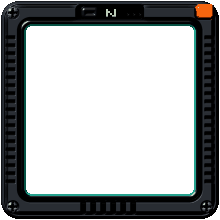
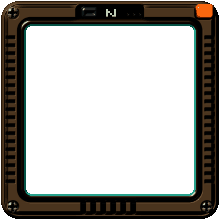
Minimap device frames: I and J in the respect meters' dark brown
The housings and bezels of I and J move from charcoal and black to the
dark warm brown of the respect meters' rim, sampled from its sprite;
screws and lips go to a warm grey metal. Everything else stays: clean
surfaces, the light-based pre-render look, I's teal line, J's light
bar, the status lamps.

Changed region(s): [[0.0, 0.0, 0.9818, 0.9818]]

diff --git a/port/docs/minimap/tools/designs.py b/port/docs/minimap/tools/designs.py
@@ -445,9 +445,9 @@ BUILDERS = [respect_ring, pager_handset, steel_plate, compass_dial]
 BUILDERS2 = [tube_frame, police_scanner, dash_gauge, gps_handheld]
 
 
-# Frames for the 3DS bottom screen's 9-slice (port/3ds/minimap.cpp, README's device frames) at its 110x110 slot:
-# clean moulded plastic and anodised metal. Edge details repeat every 4 px; make_frames.py rebuilds edges from a strip.
-GUNMETAL = hexrgb('#5a5f68'); BLACK_METAL = hexrgb('#16171b')
+# Frames for the 3DS bottom screen's 9-slice (port/3ds/minimap.cpp, README's device frames) at its 110x110 slot, in
+# the respect meters' dark warm brown. Edge details repeat every 4 px; make_frames.py rebuilds edges from a strip.
+GUNMETAL = hexrgb('#6a6052'); BLACK_METAL = hexrgb('#22180f')
 
 
 def _nine(d, cap, rib, tab_w, btab_w=0, inset=13):
@@ -502,14 +502,14 @@ def _finish(d, c, screen, map_style='colour'):
 
 
 def tracker_handset():
-    """I: a handheld tracker in charcoal moulded plastic: black anodised bezel with a thin glowing line, side vents,
+    """I: a handheld tracker in dark brown moulded plastic: dark anodised bezel with a thin glowing line, side vents,
     a black glass status window with the status lamp and an N, the pager's orange button, a speaker grille below."""
     d = Design(); d.name = 'I_tracker_handset'; d.title = 'I  Tracker handset'
     d.W = d.H = W = H = 110
     _nine(d, cap=18, rib=12, tab_w=40, btab_w=40)
     c = Canvas(W, H)
     body = sd_rrect(c, 0.5, 0.5, W - 0.5, H - 0.5, 9)
-    _housing(c, body, hexrgb('#2e3238'), 0.6, 30, 3.5, 5.0)
+    _housing(c, body, hexrgb('#4a3826'), 0.6, 30, 3.5, 5.0)
     c.h_[np.abs(body + 2.2) < 0.45] -= 0.9
     side = ((c.x > 3) & (c.x < 7.5) | (c.x > W - 7.5) & (c.x < W - 3)) & (c.y > 18) & (c.y < H - 18)
     c.paint(side & (((c.y - 18) % 4) < 1.6), hexrgb('#060708'), add=-1.8)
@@ -542,14 +542,14 @@ def tracker_handset():
 
 
 def police_scanner2():
-    """J: a police scanner in black anodised metal: red and blue light bar with an N between, a deep CRT well with a
-    gunmetal lip, vent slots on the right, two knurled knobs below, the status lamp in a gunmetal bezel top right."""
+    """J: a police scanner in dark brown anodised metal: red and blue light bar with an N between, a deep CRT well
+    with a metal lip, vent slots on the right, two knurled knobs below, the status lamp in a metal bezel top right."""
     d = Design(); d.name = 'J_police_scanner'; d.title = 'J  Police scanner'
     d.W = d.H = W = H = 110
     _nine(d, cap=20, rib=12, tab_w=44)
     c = Canvas(W, H)
     body = sd_rrect(c, 0.5, 0.5, W - 0.5, H - 0.5, 11)
-    _housing(c, body, hexrgb('#202226'), 0.9, 45, 4.5, 6.0)
+    _housing(c, body, hexrgb('#3a2b1e'), 0.9, 45, 4.5, 6.0)
     c.h_[np.abs(body + 2.5) < 0.45] -= 0.9
     bar = sd_rrect(c, 34, 0.5, 76, 12.5, 4)
     c.paint(bar < 0, hexrgb('#0c0c0e'), spec=0.8, shin=40, height=6.0 + profile_round(np.minimum(-bar, 1.5), 3.0, 1.5))
@@ -577,7 +577,7 @@ def police_scanner2():
                         (x - 0.7 * np.cos(a + 1.57), y - 0.7 * np.sin(a + 1.57))])
         c.paint(p < 0.2, hexrgb('#0c0c0e'), spec=0.4, add=-0.6)
     well = sd_rrect(c, 9, 9, W - 9, H - 9, 9)
-    c.paint(well < 0, hexrgb('#08090a'), spec=0.5, shin=30, height=6.0 - 4.5 * np.clip(-well / 3.5, 0, 1))
+    c.paint(well < 0, hexrgb('#0c0906'), spec=0.5, shin=30, height=6.0 - 4.5 * np.clip(-well / 3.5, 0, 1))
     screen = sd_rrect(c, 13, 13, W - 13, H - 13, 6)
     lip = (screen >= 0) & (screen < 1.4)
     c.paint(lip, GUNMETAL, spec=1.3, shin=60, height=1.5 + profile_round(screen, 1.4, 0.7))

diff --git a/port/docs/minimap/README.md b/port/docs/minimap/README.md
@@ -172,20 +172,22 @@ stations come from zone names, an educated guess.
 
 Two candidates to replace E on the 3DS bottom screen, where the minimap sits under the respect meters, the
 status row and the pager, at 1:1 in a 110x110 slot: dark, industrial electronic devices of GTA2's 1999 city,
-in clean charcoal moulded plastic and black anodised metal, with small saturated accents.
+in clean moulded plastic and anodised metal of the respect meters' rim colour (a dark warm brown, about
+`#382b1d` lit flat, `#1f1810` to `#67503a` across its bevels), with small saturated accents.
 
 ![I and J: the frame x3, then 9-sliced at 110x110, 316x110 (the wide row) and 40x40 (a pause map button), x2](assets/frames/device_frames.png)
 
 | | Frame | Idea | Status lamp |
 |-|-------|------|-------------|
-| I | Tracker handset | Charcoal plastic, a black anodised bezel with a thin teal glowing line, side vents, a black glass status window, the pager's orange button, a speaker grille below | In the status window, beside the N |
-| J | Police scanner | Black anodised metal, a red and blue light bar with the N, a deep CRT well with a gunmetal lip, vent slots on the right, two knurled knobs | Top right corner, in a gunmetal bezel |
+| I | Tracker handset | Brown plastic, a darker anodised bezel with a thin teal glowing line, side vents, a black glass status window, the pager's orange button, a speaker grille below | In the status window, beside the N |
+| J | Police scanner | Darker brown anodised metal, a red and blue light bar with the N, a deep CRT well with a metal lip, vent slots on the right, two knurled knobs | Top right corner, in a metal bezel |
 
 The HUD sprites are 3D renders crushed to an 8-bit palette, and the frames get that look from the light, not
 from texture: `shade_hard` in `mm_lib.py` (low ambient, a hard key light from the top left, deep ambient
 occlusion, a contrast curve), crisp bevels, high specular on edges and screws, and 48 colours per frame with no
 dithering, so gradients step. Earlier rounds, in the history: clean but soft (fcf965af, with K, a field scope);
-per-pixel grain, wear and rust (3a7399d4), which read as a weathered object rather than an electronic device.
+per-pixel grain, wear and rust (3a7399d4), which read as a weathered object rather than an electronic device;
+clean but charcoal and black (8f85f0e9), which sat apart from the HUD's browns.
 
 The status lamp is meant to show game state later: the colour of the gang whose territory the player is in, or
 green and red for whether that gang likes the player. The frame has it dark; `lamp_1x.png` is the lit lamp in
